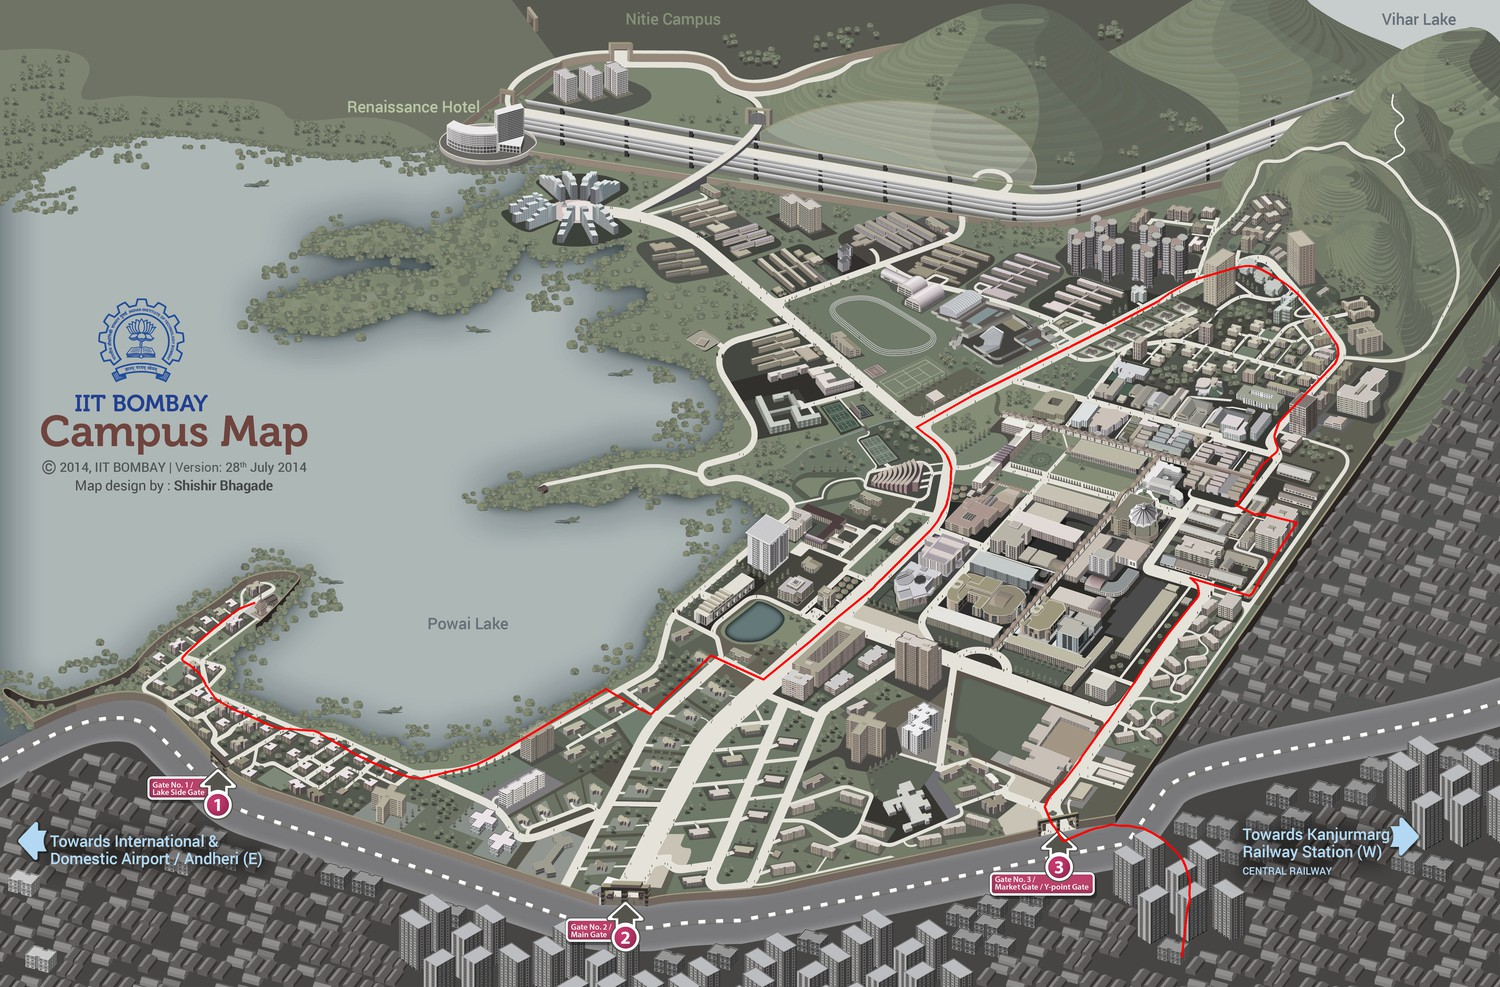
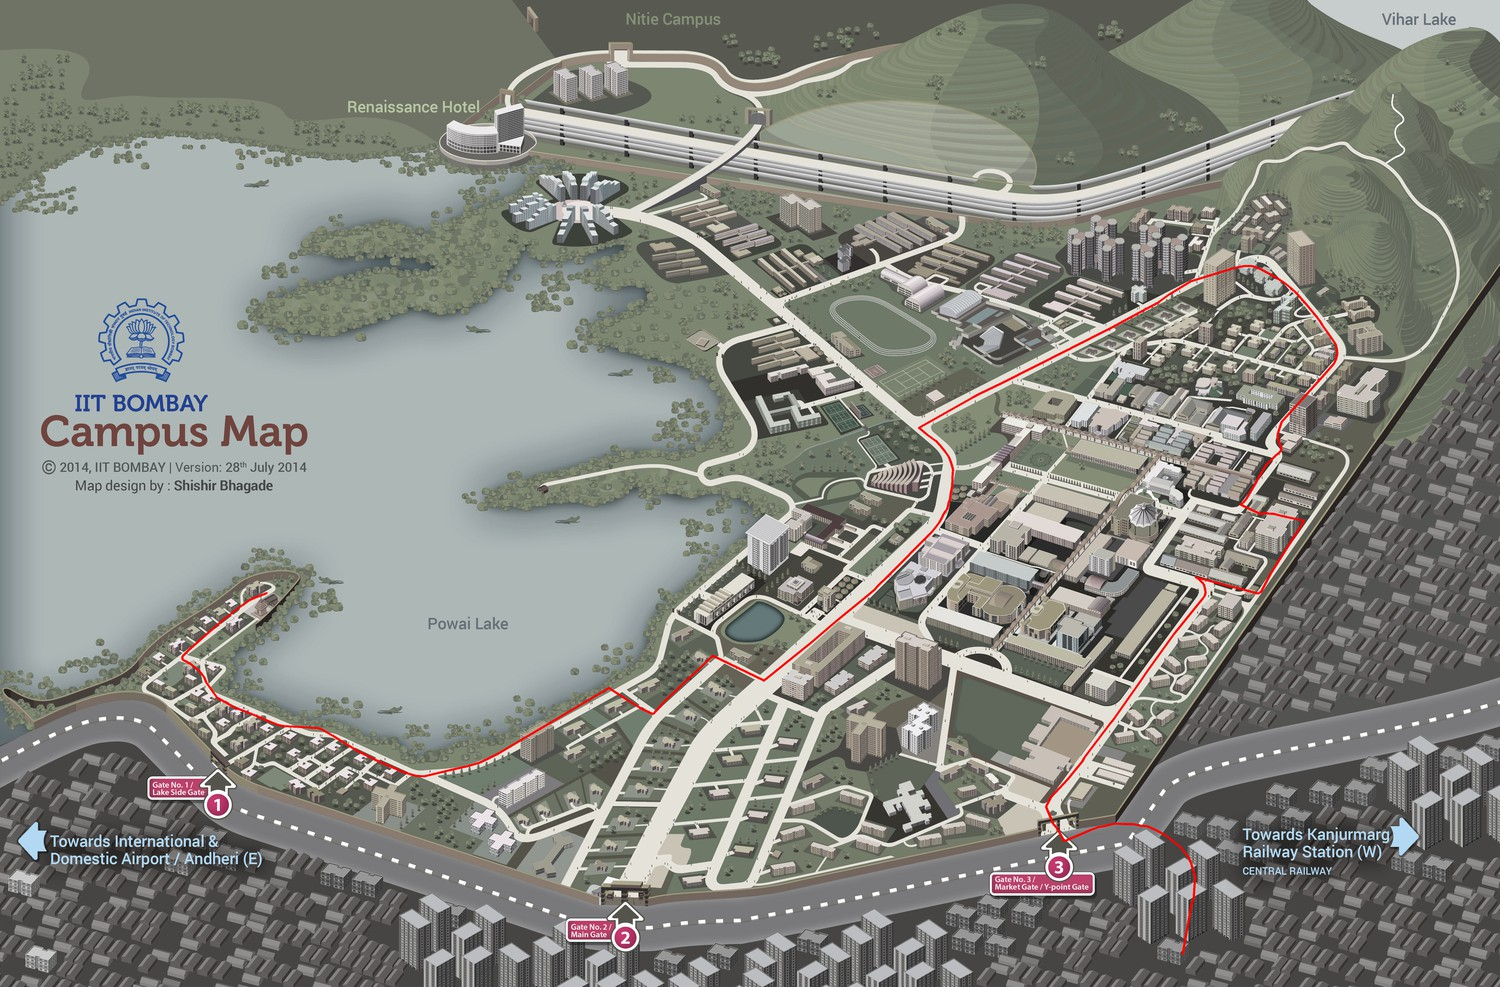
Remove bad locations

diff --git a/docs/index.html b/docs/index.html
@@ -28,5 +28,6 @@
     <a href="test1.gpx.jpg" target="_blank"><img class="map" src="test1.gpx.jpg" /></a>
     <a href="test2.gpx.jpg" target="_blank"><img class="map" src="test2.gpx.jpg" /></a>
     <a href="test3.gpx.jpg" target="_blank"><img class="map" src="test3.gpx.jpg" /></a>
+    <a href="test4.gpx.jpg" target="_blank"><img class="map" src="test4.gpx.jpg" /></a>
   </body>
 </html>

diff --git a/mapmodel.py b/mapmodel.py
@@ -18,11 +18,10 @@ locs = [
     (19.123948, 72.911225, 781, 2776,  "Lakeside gate"),
     (19.128356, 72.919225, 3830, 3000, "YP gate"),
     (19.137600, 72.915069, 4335, 1017, "H15 intersection"),
-    (19.136127, 72.910546, 3207, 949,  "H4 intersection"),
+    (19.136127, 72.910546, 3197, 952,  "H4 intersection"),
     (19.130776, 72.917189, 3714, 2209, "Shirucafe"),
-    (19.130811, 72.914857, 3091, 1964, "Hospi road"),
     (19.125455, 72.916304, 2262, 3236, "Main Gate"),
-    (19.133674, 72.911850, 3004, 1272, "New gymkhana road"),
+    (19.133917, 72.911226, 2968, 1243, "H8 entrance"),
     (19.135893, 72.906964, 2538, 768,  "H6"),
     (19.129592, 72.915441, 3041, 2245, "H10 Intersection"),
     (19.129700, 72.919007, 4025, 2596, "KV-YP Intersection"),
@@ -32,14 +31,14 @@ locs = [
     (19.136282, 72.918019, 4787, 1373, "QIP intersection"),
     (19.134384, 72.918330, 4611, 1637, "QIP intersection lower"),
     (19.135437, 72.906146, 2291, 771,  "H12 intersection"),
-    (19.136024, 72.912494, 3540, 1068, "H2 road"),
-    (19.129959, 72.910325, 1945, 1769, "Boat house"),
+    (19.136024, 72.912494, 3537, 1074, "H2 road"),
+    (19.130893, 72.912058, 2536, 1717, "Boat house Intersection"),
     (19.128436, 72.914645, 2605, 2393, "Jalvihar lake intersection lower"),
     (19.125301, 72.913422, 1547, 2803, "Jayantia intersection"),
     (19.131663, 72.915277, 3383, 1867, "Convo som intersection"),
     (19.136237, 72.916970, 4550, 1306, "21-Type1 intersection"),
     (19.137621, 72.917248, 4768, 1150, "Vidya niwas intersection"),
-    (19.132018, 72.919453, 4493, 2149, "Aero border intersection"),
+    (19.131882, 72.918811, 4365, 2129, "Aero border intersection"),
     (19.128468, 72.917833, 3401, 2767, "C7 intersection"),
     (19.132843, 72.915994, 3783, 1727, "Main building intersection"),
     (19.134365, 72.915378, 3933, 1447, "Library intersection"),
